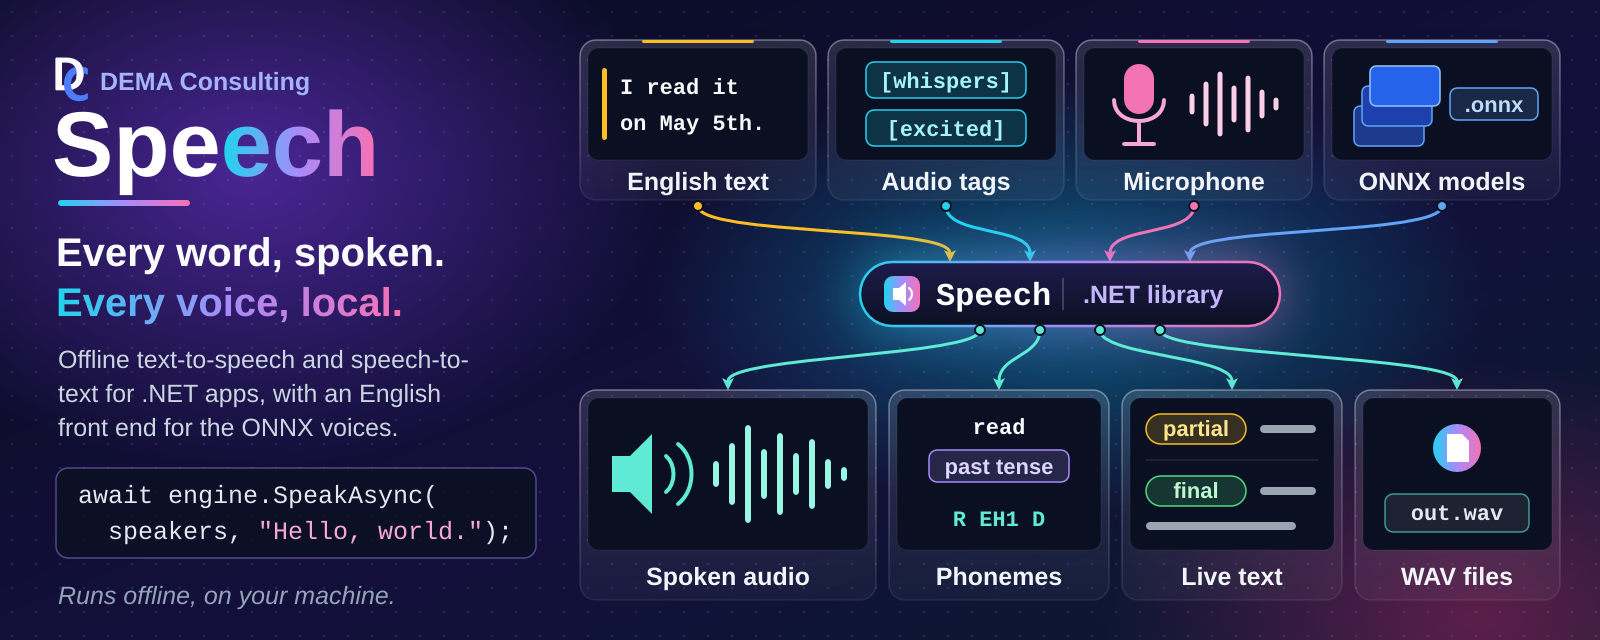
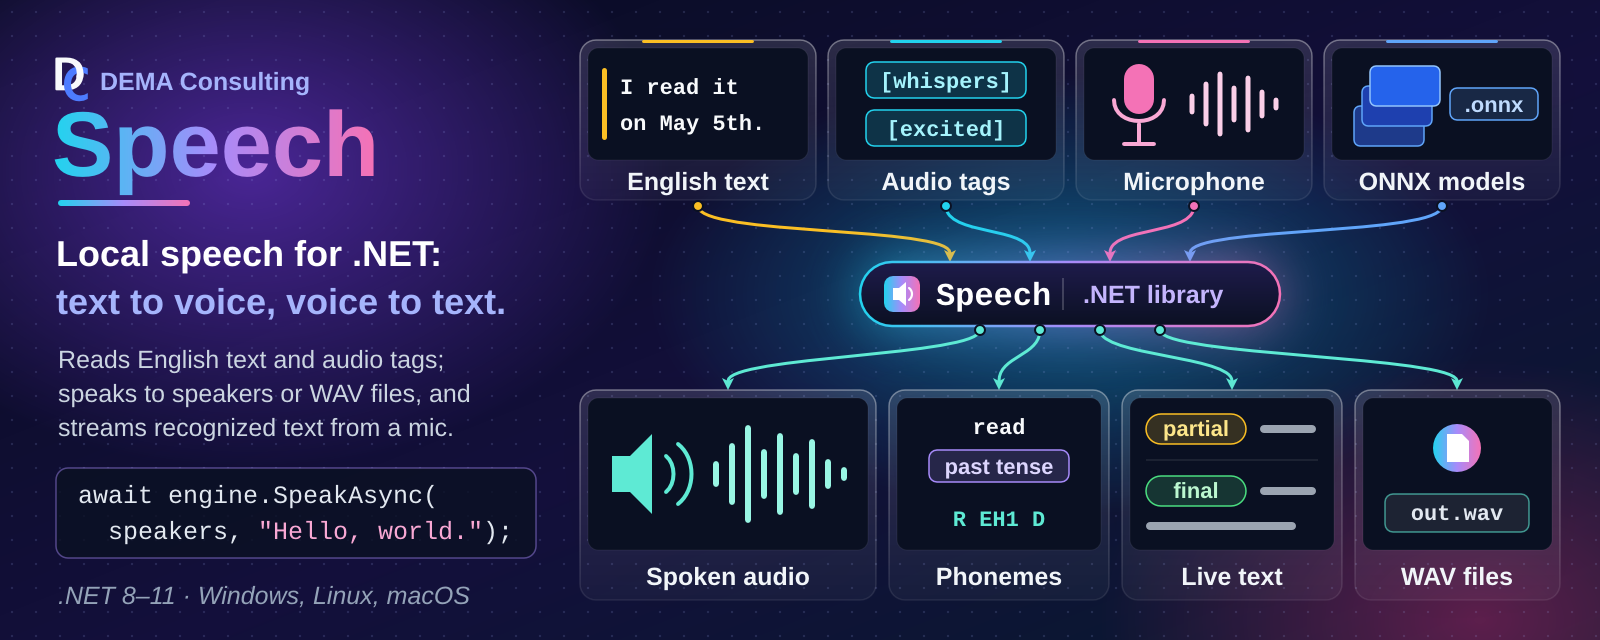
README hero: calmer factual tagline, hero as H1; address review comments
Apply the BuildMark-pilot hero style (plain two-line tagline, solid colors except the brand word, factual body and footnote), make the hero the README H1, note how to build from source until the packages are on NuGet, describe the CMU lexicon with its letter-to-sound fallback, add the technical overview to ReviewMark, describe the text-analysis seam precisely, and call the Sherpa models legacy until after the bridge release.

diff --git a/README.md b/README.md
@@ -1,7 +1,4 @@
-# Speech
-
-<!-- IMPORTANT: All links in this file must be absolute URLs.
-     This file is distributed in packages and relative links will not resolve. -->
+# ![Speech banner: the Speech name with the tagline 'Local speech for .NET: text to voice, voice to text.' and the text 'Reads English text and audio tags; speaks to speakers or WAV files, and streams recognized text from a mic.' Shown with the C# call 'await engine.SpeakAsync(speakers, "Hello, world.");' and the note '.NET 8–11 · Windows, Linux, macOS'. English text, Natural Language Audio Tags, microphone audio, and downloaded ONNX models flow into the Speech .NET library, and arrows lead out to what the library produces: spoken audio, the phonemes of a heteronym such as read in the past tense, live partial and final recognized text, and WAV files][hero]
 
 [![GitHub forks][badge-forks]][link-forks]
 [![GitHub stars][badge-stars]][link-stars]
@@ -12,14 +9,15 @@
 [![Security][badge-security]][link-security]
 [![NuGet][badge-nuget]][link-nuget]
 
-![Speech banner: the Speech name with the tagline 'Every word, spoken. Every voice, local.' and the C# call 'await engine.SpeakAsync(speakers, "Hello, world.");'. English text, Natural Language Audio Tags, microphone audio, and downloaded ONNX models flow on curved arrows into the Speech .NET library, and arrows lead out to what it produces: spoken audio, the phonemes of a heteronym such as read in the past tense, live partial and final recognized text, and WAV files][hero]
+<!-- IMPORTANT: All links in this file must be absolute URLs.
+     This file is distributed in packages and relative links will not resolve. -->
 
 ## Overview
 
 DemaConsulting.Speech is a cross-platform .NET library for local, offline text-to-speech and speech-to-text in desktop
 applications. Models are downloaded on demand into a per-user store and run on the machine, with no cloud service. The
 English voices speak through a DEMA English front end that reads numbers, dates and heteronyms in context and
-pronounces every word from the CMU Pronouncing Dictionary.
+pronounces words from the CMU Pronouncing Dictionary, with a trained letter-to-sound model for words it lacks.
 
 ## Features
 
@@ -49,6 +47,10 @@ To use the library from the command line instead, install the `speech-cli` .NET 
 ```bash
 dotnet tool install -g DemaConsulting.Speech.Cli --prerelease
 ```
+
+If the newest version on NuGet does not contain these packages yet, build from a clone of this repository instead:
+reference `src/DemaConsulting.Speech.Onnx.Piper/DemaConsulting.Speech.Onnx.Piper.csproj` from your project, and run
+the tool with `dotnet run --project src/DemaConsulting.Speech.Cli --` followed by its arguments.
 
 ## Usage
 

diff --git a/docs/technical_overview/model-families.md b/docs/technical_overview/model-families.md
@@ -1,10 +1,13 @@
 # Model Families and the English Front End
 
 The library is engine-neutral: a model package registers its models into a `SpeechModelCatalog`, and the core library
-never names a concrete model. Only some models speak through the English front end. Whether a model does is decided by
-the model itself: a synthesis model that returns an `EnglishTextAnalyzer` from `ISynthesisModel.TextAnalyzer` gets the
-analysis in every session, and its backend phonemizes with `DemaConsulting.Speech.Phonemes.En`. A model that returns no
-analyzer (the default) receives the text as written.
+never names a concrete model. Only some models speak through the English front end. The core library offers the seam,
+and each model package decides how to use it. A synthesis model opts into text analysis by returning an analyzer from
+`ISynthesisModel.TextAnalyzer` (the default is none, and the text is then not analyzed). The annotations reach a
+backend only if that backend implements the optional `IAnnotatedSynthesisBackend`, and the backend decides how to
+interpret them; the core library does not require any particular use. The Piper and Kokoro packages return an
+`EnglishTextAnalyzer`, and their backends implement `IAnnotatedSynthesisBackend` and phonemize each chunk with
+`DemaConsulting.Speech.Phonemes.En`. That combination is what this document calls the DEMA English front end.
 
 ## Direct ONNX Voices on the DEMA English Front End
 
@@ -37,5 +40,6 @@ them:
 - **Nemotron 3.5 streaming recognition** (`DemaConsulting.Speech.Onnx.NemotronStt`) is a speech-to-text model.
   Recognition has no text front end, so nothing in this document concerns it.
 
-The Sherpa-hosted models of `DemaConsulting.Speech.Sherpa` are legacy and scheduled for removal; they use neither
-Text.En nor Phonemes.En, so the direct ONNX models on the DEMA English front end are the path forward.
+The Sherpa-hosted models of `DemaConsulting.Speech.Sherpa` are legacy, to be removed after a bridge release that ships
+both them and the direct ONNX models; they use neither Text.En nor Phonemes.En, so the direct ONNX models on the DEMA
+English front end are the path forward.
